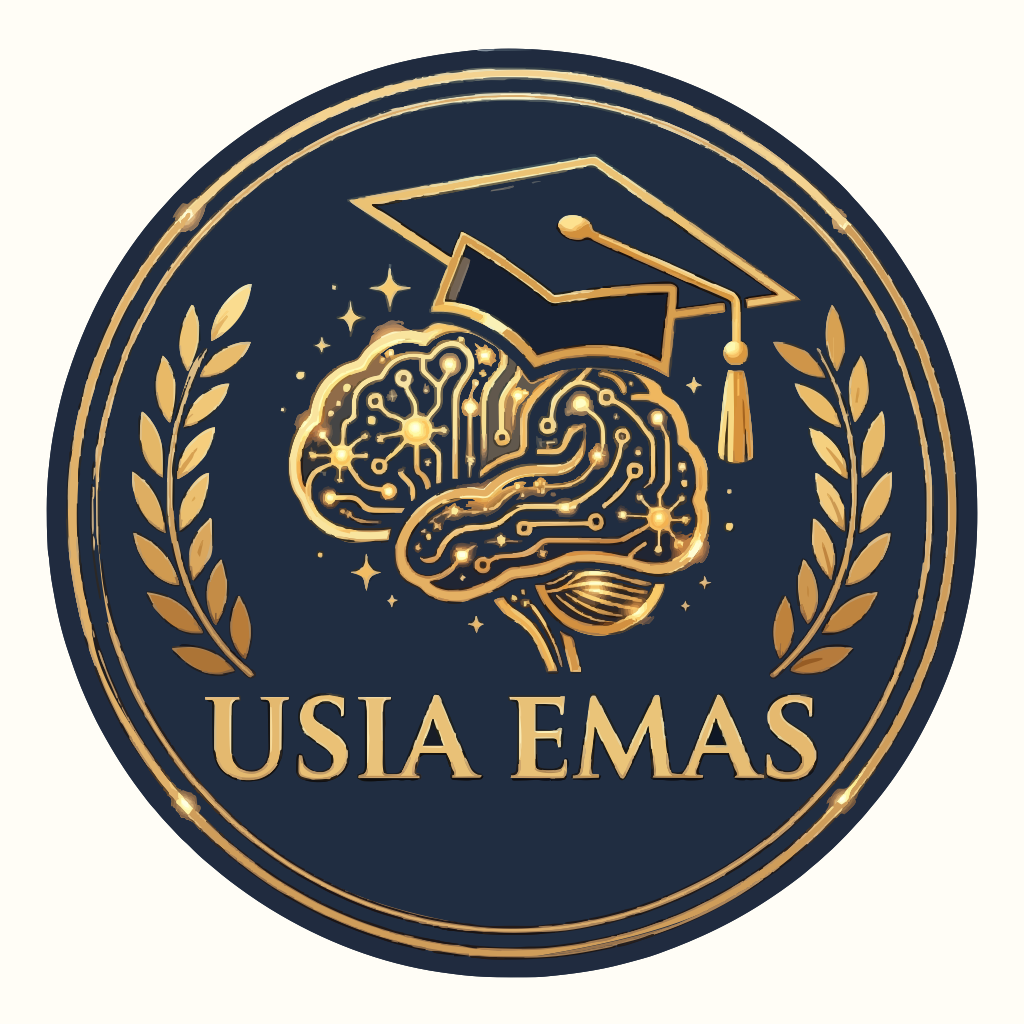
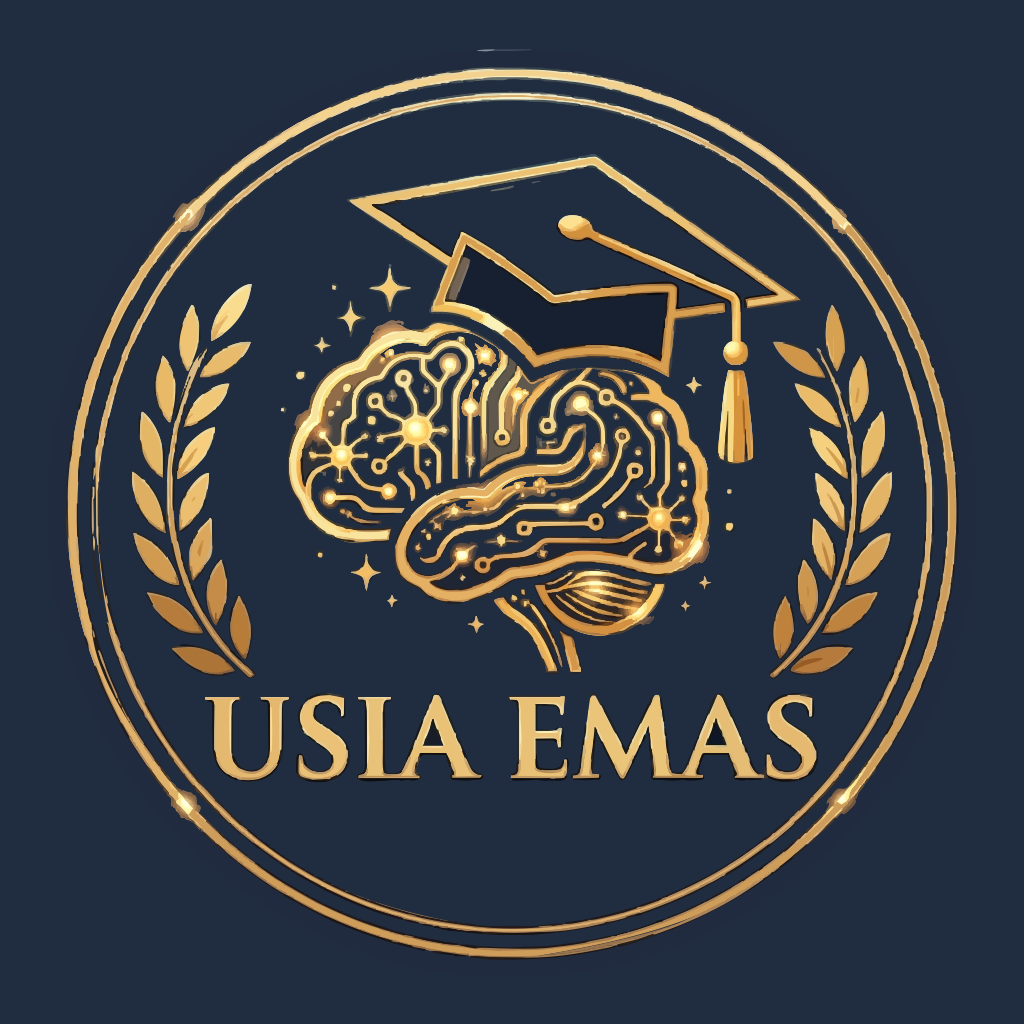
feat(theme): dark navy theme matching the Usia Emas badge
- Replace the cream/gold palette with navy backgrounds, lighter navy cards,
  cream text, and gold primary actions with navy labels; every text/icon pair
  meets WCAG AA.
- Add onMedia, mediaBackground, and codeSurface tokens so camera overlays stay
  white and QR codes keep a light quiet zone.
- Move the branded splash, native splash, adaptive icon background, iOS icon,
  and status bar to the navy theme.

diff --git a/apps/mobile/src/splash/BrandedSplash.tsx b/apps/mobile/src/splash/BrandedSplash.tsx
@@ -1,7 +1,7 @@
 import { Image, StyleSheet, Text, View } from "react-native";
 import { LinearGradient } from "expo-linear-gradient";
 import Svg, { Circle, Polygon } from "react-native-svg";
-import { appBrandNameUppercase, appCopyright } from "@daycare/ui";
+import { appBrandNameUppercase, appCopyright, backgroundGradient, colors } from "@daycare/ui";
 
 type BrandedSplashProps = {
   onLogoLoad: () => void;
@@ -10,26 +10,26 @@ type BrandedSplashProps = {
 function SplashSunburst() {
   return <View style={styles.sunburst} pointerEvents="none">
     <Svg width="100%" height="100%" viewBox="0 0 1080 1920" preserveAspectRatio="xMidYMid slice">
-      <Circle cx="540" cy="700" r="638" fill="#FFFFFF" fillOpacity={0.16} />
-      <Polygon points="514,700 35,628 35,772" fill="#FFFFFF" fillOpacity={0.24} />
-      <Polygon points="514,700 100,445 173,330" fill="#FFFFFF" fillOpacity={0.24} />
-      <Polygon points="514,700 285,260 420,195" fill="#FFFFFF" fillOpacity={0.24} />
-      <Polygon points="514,700 468,195 612,195" fill="#FFFFFF" fillOpacity={0.24} />
-      <Polygon points="566,700 795,260 660,195" fill="#FFFFFF" fillOpacity={0.24} />
-      <Polygon points="566,700 980,445 907,330" fill="#FFFFFF" fillOpacity={0.24} />
-      <Polygon points="566,700 1045,628 1045,772" fill="#FFFFFF" fillOpacity={0.24} />
-      <Polygon points="566,700 980,955 907,1070" fill="#FFFFFF" fillOpacity={0.2} />
-      <Polygon points="566,700 795,1140 660,1205" fill="#FFFFFF" fillOpacity={0.18} />
-      <Polygon points="514,700 612,1205 468,1205" fill="#FFFFFF" fillOpacity={0.18} />
-      <Polygon points="514,700 285,1140 420,1205" fill="#FFFFFF" fillOpacity={0.18} />
-      <Polygon points="514,700 100,955 173,1070" fill="#FFFFFF" fillOpacity={0.2} />
+      <Circle cx="540" cy="700" r="638" fill={colors.primary} fillOpacity={0.08} />
+      <Polygon points="514,700 35,628 35,772" fill={colors.primary} fillOpacity={0.12} />
+      <Polygon points="514,700 100,445 173,330" fill={colors.primary} fillOpacity={0.12} />
+      <Polygon points="514,700 285,260 420,195" fill={colors.primary} fillOpacity={0.12} />
+      <Polygon points="514,700 468,195 612,195" fill={colors.primary} fillOpacity={0.12} />
+      <Polygon points="566,700 795,260 660,195" fill={colors.primary} fillOpacity={0.12} />
+      <Polygon points="566,700 980,445 907,330" fill={colors.primary} fillOpacity={0.12} />
+      <Polygon points="566,700 1045,628 1045,772" fill={colors.primary} fillOpacity={0.12} />
+      <Polygon points="566,700 980,955 907,1070" fill={colors.primary} fillOpacity={0.1} />
+      <Polygon points="566,700 795,1140 660,1205" fill={colors.primary} fillOpacity={0.09} />
+      <Polygon points="514,700 612,1205 468,1205" fill={colors.primary} fillOpacity={0.09} />
+      <Polygon points="514,700 285,1140 420,1205" fill={colors.primary} fillOpacity={0.09} />
+      <Polygon points="514,700 100,955 173,1070" fill={colors.primary} fillOpacity={0.1} />
     </Svg>
   </View>;
 }
 
 export function BrandedSplash({ onLogoLoad }: BrandedSplashProps) {
   return <View style={styles.container} accessibilityElementsHidden importantForAccessibility="no-hide-descendants">
-    <LinearGradient colors={["#FFE9A6", "#FFFDF6", "#D5F0FF"]} locations={[0, 0.49, 1]} start={{ x: 0, y: 0.5 }} end={{ x: 1, y: 0.5 }} style={styles.background}>
+    <LinearGradient colors={backgroundGradient.colors} locations={backgroundGradient.locations} start={{ x: 0, y: 0.5 }} end={{ x: 1, y: 0.5 }} style={styles.background}>
       <SplashSunburst />
       <View style={styles.content}>
         <Image source={require("../../assets/images/login-icon.png")} style={styles.logo} resizeMode="contain" onLoadEnd={onLogoLoad} />
@@ -44,13 +44,13 @@ export function BrandedSplash({ onLogoLoad }: BrandedSplashProps) {
 }
 
 const styles = StyleSheet.create({
-  container: { ...StyleSheet.absoluteFillObject, backgroundColor: "#FFFDF6" },
+  container: { ...StyleSheet.absoluteFillObject, backgroundColor: colors.background },
   background: { flex: 1 },
   sunburst: { ...StyleSheet.absoluteFillObject, width: "100%", height: "100%" },
   content: { flex: 1, alignItems: "center", justifyContent: "center", paddingHorizontal: 24 },
   logo: { width: "45%", maxWidth: 320, height: "43%", maxHeight: 560, marginTop: -92 },
   copy: { alignItems: "center", marginTop: -8 },
-  brand: { color: "#4B1E63", fontSize: 42, fontWeight: "800", letterSpacing: 3.5, textAlign: "center" },
-  tagline: { color: "#68717D", fontSize: 22, marginTop: 10, textAlign: "center" },
-  copyright: { color: "#929BA8", fontSize: 14, marginTop: 18, textAlign: "center" },
+  brand: { color: colors.primary, fontSize: 42, fontWeight: "800", letterSpacing: 3.5, textAlign: "center" },
+  tagline: { color: colors.text, fontSize: 22, marginTop: 10, textAlign: "center" },
+  copyright: { color: colors.muted, fontSize: 14, marginTop: 18, textAlign: "center" },
 });

diff --git a/packages/ui/src/theme.ts b/packages/ui/src/theme.ts
@@ -1,28 +1,39 @@
+// Dark navy theme matching the Usia Emas badge: navy #202D41 is the logo
+// background, gold accents come from its rings and lettering. Every text/icon
+// pair below meets WCAG AA (4.5:1 for text, 3:1 for controls) on the surfaces
+// it is used with.
 export const colors = {
-  primary: "#996D14",
-  primaryPressed: "#7A5710",
-  danger: "#A92C43",
-  background: "#FFFDF6",
-  surface: "#FFFFFF",
-  surfaceTint: "#FFFAF0",
-  dangerSoft: "#FCE8ED",
+  primary: "#E6BE76",
+  primaryPressed: "#C9A15E",
+  danger: "#FF8FA0",
+  background: "#202D41",
+  surface: "#2B3A52",
+  surfaceTint: "#26344B",
+  dangerSoft: "#4A2C3A",
   accent: "#87CDB5",
-  accentSoft: "#E8F7F1",
-  text: "#3D3526",
-  // Darkened from #807766 so secondary text meets WCAG AA (4.5:1) on white and tinted surfaces.
-  muted: "#6E6655",
-  border: "#F0E3C9",
-  disabled: "#F5EFE3",
-  onPrimary: "#FFFFFF",
-  success: "#276B4D",
-  successSoft: "#E3F4EC",
-  warning: "#8F5A00",
-  warningSoft: "#FFF1D6",
-  info: "#2F6690",
-  infoSoft: "#E4F1FB",
-  overlay: "rgba(61, 38, 50, 0.42)",
-  // Off-state track for switches: 3:1 against white so the control stays visible.
-  switchOff: "#948A77",
+  accentSoft: "#23443F",
+  text: "#F7F1E3",
+  muted: "#C3BBA8",
+  border: "#41526E",
+  disabled: "#36455E",
+  // Text and icons on primary (gold) and danger fills.
+  onPrimary: "#1A2436",
+  success: "#7FD6AC",
+  successSoft: "#20403A",
+  warning: "#F5C46A",
+  warningSoft: "#4A3B22",
+  info: "#93C7F0",
+  infoSoft: "#233D57",
+  overlay: "rgba(8, 12, 20, 0.6)",
+  // Off-state track for switches: 3:1 against the card surface so the control stays visible.
+  switchOff: "#8090A8",
+  // Lines and labels drawn over a live camera preview or photo stay white regardless of theme.
+  onMedia: "#FFFFFF",
+  // Letterbox behind a camera preview or photo before it renders.
+  mediaBackground: "#000000",
+  // QR codes need a light quiet zone to stay scannable on a dark theme.
+  codeSurface: "#FFFFFF",
+  shadow: "#000000",
 } as const;
 
 export type Tone = "neutral" | "info" | "success" | "warning" | "danger";
@@ -44,14 +55,14 @@ export const toneIcons = {
   danger: "alert-circle",
 } as const satisfies Record<Tone, string>;
 
-export const backgroundGradient = { colors: ["#FEE895", "#FFFDF6", "#C1E8FD"], locations: [0, 0.5, 1] } as const;
+export const backgroundGradient = { colors: ["#1B2638", "#202D41", "#26364F"], locations: [0, 0.5, 1] } as const;
 
 export const spacing = { xs: 4, sm: 8, md: 16, lg: 24, xl: 32 } as const;
 export const radius = { sm: 10, md: 16, lg: 24, pill: 999 } as const;
 
 export const shadows = {
-  sm: { shadowColor: colors.text, shadowOpacity: 0.06, shadowRadius: 6, shadowOffset: { width: 0, height: 2 }, elevation: 2 },
-  md: { shadowColor: colors.text, shadowOpacity: 0.1, shadowRadius: 14, shadowOffset: { width: 0, height: 6 }, elevation: 5 },
+  sm: { shadowColor: colors.shadow, shadowOpacity: 0.25, shadowRadius: 6, shadowOffset: { width: 0, height: 2 }, elevation: 2 },
+  md: { shadowColor: colors.shadow, shadowOpacity: 0.35, shadowRadius: 14, shadowOffset: { width: 0, height: 6 }, elevation: 5 },
 } as const;
 
 export const typography = {

diff --git a/apps/mobile/app/_layout.tsx b/apps/mobile/app/_layout.tsx
@@ -1,7 +1,7 @@
 import { QueryClient, QueryClientProvider } from "@tanstack/react-query";
 import { ApiError } from "@daycare/api-client";
 import { Stack, useNavigationContainerRef, usePathname, useRouter } from "expo-router";
-import { Alert, BackHandler, Platform } from "react-native";
+import { Alert, BackHandler, Platform, StatusBar } from "react-native";
 import { useEffect, useRef, useState, type PropsWithChildren } from "react";
 import * as Notifications from "expo-notifications";
 import * as SplashScreen from "expo-splash-screen";
@@ -10,7 +10,7 @@ import { I18nProvider } from "@/i18n/I18nProvider";
 import { bottomNavigationPaths } from "@/navigation/RoleBottomNavigation";
 import { canOpenNotificationRoute, isSelfServiceNotificationRoute, notificationRouteWithOrganizationId } from "@/navigation/notificationRouteAccess";
 import { RealtimeConnection } from "@/realtime/RealtimeConnection";
-import { publishInlineFeedback } from "@daycare/ui";
+import { colors, publishInlineFeedback } from "@daycare/ui";
 import { BrandedSplash } from "@/splash/BrandedSplash";
 import { InactiveStaffRouteBoundary } from "@/navigation/InactiveStaffRouteBoundary";
 import { InactiveParentRouteBoundary } from "@/navigation/InactiveParentRouteBoundary";
@@ -201,6 +201,8 @@ function BottomNavigationBackHandler({ children }: PropsWithChildren) {
 
 export default function RootLayout() {
   return <Providers>
+    {/* Light status-bar content for the dark navy theme. */}
+    <StatusBar barStyle="light-content" backgroundColor={colors.background} />
     <BottomNavigationBackHandler><Stack initialRouteName="home" screenOptions={{ headerShown: false }}>
       {bottomNavigationScreenNames.map((name) => <Stack.Screen key={name} name={name} options={{ animation: "none" }} />)}
       {[

diff --git a/apps/mobile/app/attendance-scan.tsx b/apps/mobile/app/attendance-scan.tsx
@@ -50,9 +50,9 @@ function AttendanceScanScreenContent() {
 }
 const styles = StyleSheet.create({
   center: { textAlign: "center" },
-  camera: { height: 420, overflow: "hidden", borderRadius: radius.lg, backgroundColor: colors.text },
+  camera: { height: 420, overflow: "hidden", borderRadius: radius.lg, backgroundColor: colors.mediaBackground },
   overlay: { ...StyleSheet.absoluteFillObject, alignItems: "center", justifyContent: "center" },
-  frame: { width: 240, height: 240, borderRadius: radius.lg, borderWidth: 3, borderColor: colors.onPrimary },
+  frame: { width: 240, height: 240, borderRadius: radius.lg, borderWidth: 3, borderColor: colors.onMedia },
   status: { position: "absolute", left: spacing.md, right: spacing.md, bottom: spacing.md, flexDirection: "row", alignItems: "center", justifyContent: "center", gap: spacing.sm, padding: spacing.sm, borderRadius: radius.pill, backgroundColor: colors.primary },
   statusText: { color: colors.onPrimary },
 });

diff --git a/apps/mobile/app/parent-qr.tsx b/apps/mobile/app/parent-qr.tsx
@@ -60,7 +60,7 @@ function ParentQrScreenContent() {
 }
 const styles = StyleSheet.create({
   card: { alignItems: "center", gap: spacing.sm, padding: spacing.lg, borderRadius: radius.lg, borderWidth: 1, borderColor: colors.border, backgroundColor: colors.surface },
-  qrFrame: { padding: spacing.md, borderRadius: radius.md, backgroundColor: colors.onPrimary },
+  qrFrame: { padding: spacing.md, borderRadius: radius.md, backgroundColor: colors.codeSurface },
   center: { textAlign: "center" },
   single: { gap: spacing.sm },
 });

diff --git a/README.md b/README.md
@@ -38,6 +38,7 @@ Daily implementation history and known implementation gaps remain under `docs/ch
 - Main role Home layouts have no app bar; child and detail screens use an app bar with a back button. Navigation is role-specific: Staff Admin and Staff open Profile or the notification inbox from Home toolbar icons; the inbox icon carries the unread count. The inbox provides **Mark all as read** per authorized tenant context in addition to individual read actions. The inbox settings can pause native Expo push delivery for the current device for one hour, one week, or one month, or locally mute browser notifications for the same durations; selecting a duration is a draft and it takes effect only after **Apply**. Browser notifications are shown only while the web app remains connected and the browser permission is granted. Neither setting hides persisted inbox items or realtime updates. Staff Admin uses four bottom tabs—Home, Children, Classes, and Manage; Development, staff accounts, branches, finance, payments, subscriptions, and booking approvals are grouped in Manage. Platform Admin has tenant administration across three bottom tabs—Home, Tenant, and Master data—and opens Profile from the Home toolbar icon; Staff has classroom operations and opens **Perkembangan Anak** as a child screen with a toolbar/back button. Parent has development, attendance QR, and booking bottom tabs; both the active-tenant and onboarding Parent Home expose Profile from a toolbar icon instead. Profile is always a dedicated child screen with an app bar/back button, never a bottom tab. Every role can access it, and it is the sole location for signing out. Profile manages display name, an optional globally unique username, gender, date of birth, and the application password. The platform allows at most one Platform Admin; a deployed account is provisioned through controlled infrastructure bootstrap, and the API and UI do not create a second Platform Admin. A globally registered Parent also receives an optional **Informasi keluarga** child screen from Profile after signup—not during signup—to enter husband/wife birth dates, occupation dropdowns, and monthly income ranges for manual school-fee consideration. This sensitive global profile is never used to calculate fees automatically. Staff Admin sees only occupation and/or income ranges explicitly enabled by the Platform Admin for at least one of the tenant's institution types, and only in Parent enrollment approval; Staff, Platform Admin, and other tenants do not receive the fields.
 - Home loading states use animated shimmer placeholders that preserve each role's layout while profile, enrollment, summary, branch, or tenant data is loading. A loading placeholder is replaced by the actual data, an error state, or an empty state; it is never treated as a zero or as permission to perform an action.
 - Shared mobile UI includes an accessible bottom sheet with a drag handle and close button. Operational add, edit, assignment, and password forms begin from an explicit action instead of rendering immediately; short independent forms open in a Bottom Sheet. Long dependent workflows—especially enrollment, checkout, billing, approval, or account creation with multiple sections or a final review—use a dedicated full-page multi-step form wizard with a visible stepper, per-step validation, draft-preserving back navigation, and a clear final summary. Their common shell is `MultiStepFormWizard` from `packages/ui`: it accepts one or more dynamic steps, keeps the active index controlled by the feature screen, and horizontally scrolls the indicator when many steps cannot fit safely. Connector lines remain white before their destination step is reached and use the shared primary gold color after it is reached. Profile uses the Bottom Sheet to confirm logout before ending the session.
+- The app uses a dark navy theme taken from the Usia Emas badge: navy `#202D41` backgrounds, lighter navy cards, cream text, and gold primary actions with navy labels. All colors come from the tokens in `packages/ui/src/theme.ts` (each text/icon pair meets WCAG AA on its surface); QR codes keep a white quiet zone (`codeSurface`) and camera overlays stay white (`onMedia`).
 - On Android and iOS, every role's Home supports pull-to-refresh. The gesture refetches only the active data already used by that role's Home (including readiness, notices, and scoped operational summaries where applicable); it performs no mutation and is intentionally not shown on web.
 - **Cabang** dikelola Staff Admin dengan nama, zona waktu, alamat lengkap wajib, dan tautan Google Maps opsional. Lokasi tersimpan per cabang. Parent membuka **Profil Anak** dari Home untuk membaca profil anak, kelas/Tingkatan aktif, Program Pendampingan yang dibagikan, Staff penugasan tanpa kontaknya, serta alamat cabang dan tombol Google Maps bila tersedia.
 - Date and time fields use one reusable picker: the platform-native picker on Android and iOS, and the browser's native inputs on web. Its values remain `YYYY-MM-DD` for dates and `HH:mm` for times.

diff --git a/docs/changes/2026-10-07/navy-theme.md b/docs/changes/2026-10-07/navy-theme.md
@@ -1,0 +1,38 @@
+# Tema gelap navy mengikuti logo
+
+## Keputusan
+
+User memilih warna latar lencana logo (navy `#202D41`) sebagai latar seluruh
+aplikasi, bukan hanya sebagai warna utama.
+
+## Perubahan
+
+- `packages/ui/src/theme.ts`: palet baru. Latar `#202D41`, kartu `#2B3A52`,
+  teks krem `#F7F1E3`, muted `#C3BBA8`, primary emas `#E6BE76` dengan
+  `onPrimary` navy `#1A2436`, serta varian status (danger/success/warning/info)
+  yang lebih terang beserta latar soft gelap. Gradien latar dan bayangan
+  menyesuaikan (bayangan memakai token `shadow` hitam, bukan warna teks).
+- Token baru untuk kasus yang harus tetap terang/gelap apa pun temanya:
+  `onMedia` (garis/teks di atas kamera), `mediaBackground` (latar kamera),
+  `codeSurface` (latar QR agar tetap bisa dipindai).
+- `attendance-scan.tsx` dan `parent-qr.tsx` memakai token baru tersebut;
+  sebelumnya keduanya memakai `onPrimary`/`text` sebagai "putih"/"hitam".
+- `BrandedSplash.tsx`: warna hardcoded diganti token (latar navy, sinar emas
+  tipis, teks merek emas, tagline krem).
+- `app.json`: `userInterfaceStyle` menjadi `dark`; latar splash native dan
+  ikon adaptif Android menjadi `#202D41`. `_layout.tsx` memasang status bar
+  `light-content`.
+- `icon.png` dirender ulang dengan latar navy agar ikon iOS menyatu dengan
+  lencana.
+
+## Verifikasi
+
+- Rasio kontras WCAG dihitung untuk 25 pasangan teks/ikon dan latarnya; semua
+  lolos (teks ≥ 4.5:1, kontrol ≥ 3:1; terendah danger di atas kartu 5.29:1).
+- Pencarian warna hardcoded di `apps/mobile` dan `packages/ui` (di luar
+  `theme.ts`): tidak tersisa.
+- `pnpm verify` lulus (lint, typecheck, 187 test).
+- Dicek visual di web lokal: login, Home Staff, pemilih anak mode Pesan, dan
+  thread chat (bubble, reply, foto, composer).
+- Belum dicek di perangkat native; status bar, splash native, dan ikon baru
+  berlaku setelah build ulang.
